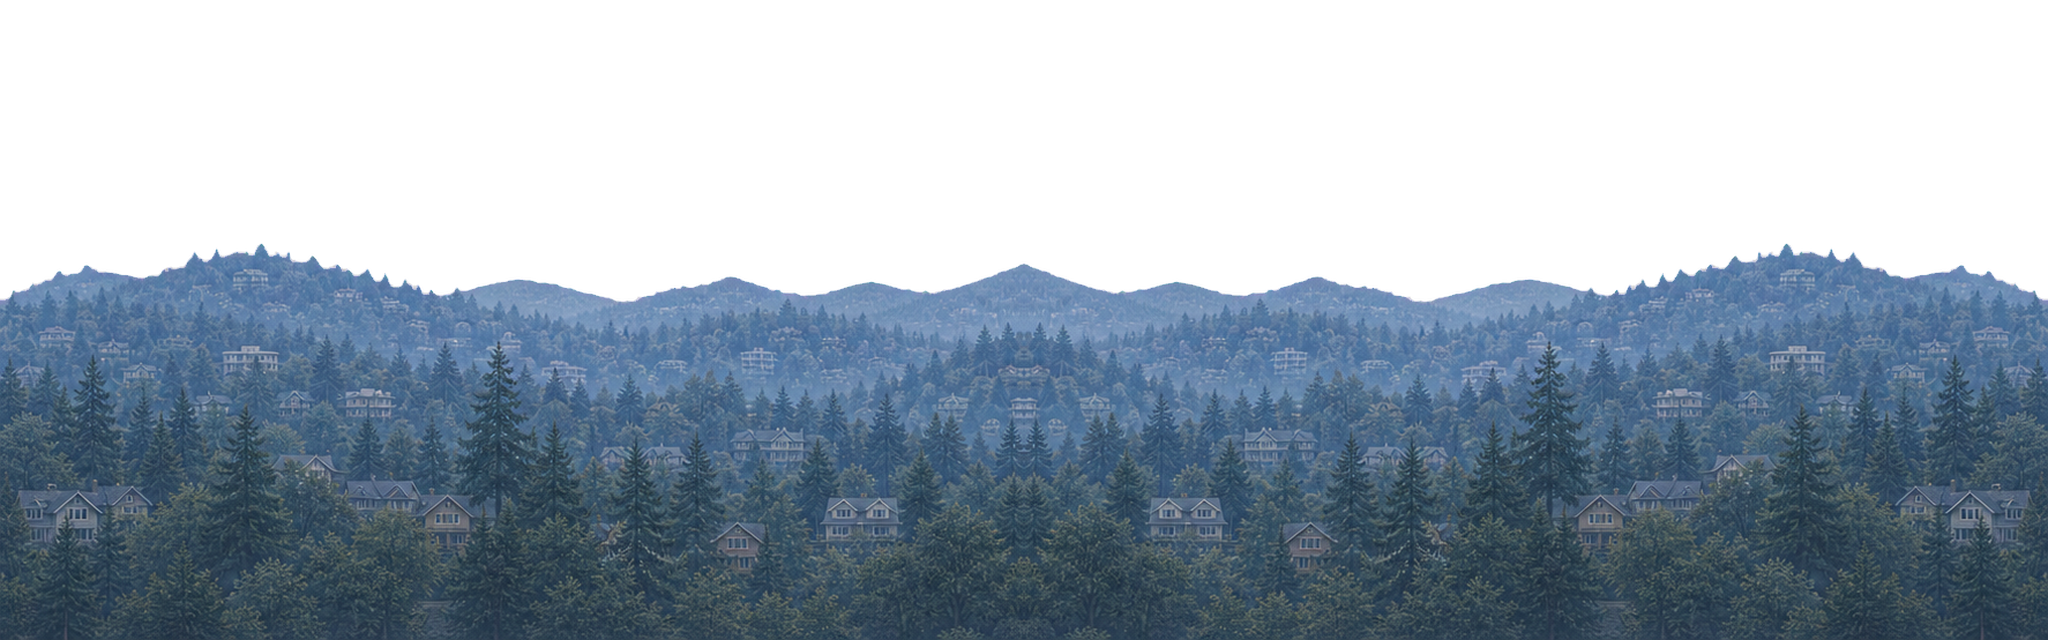
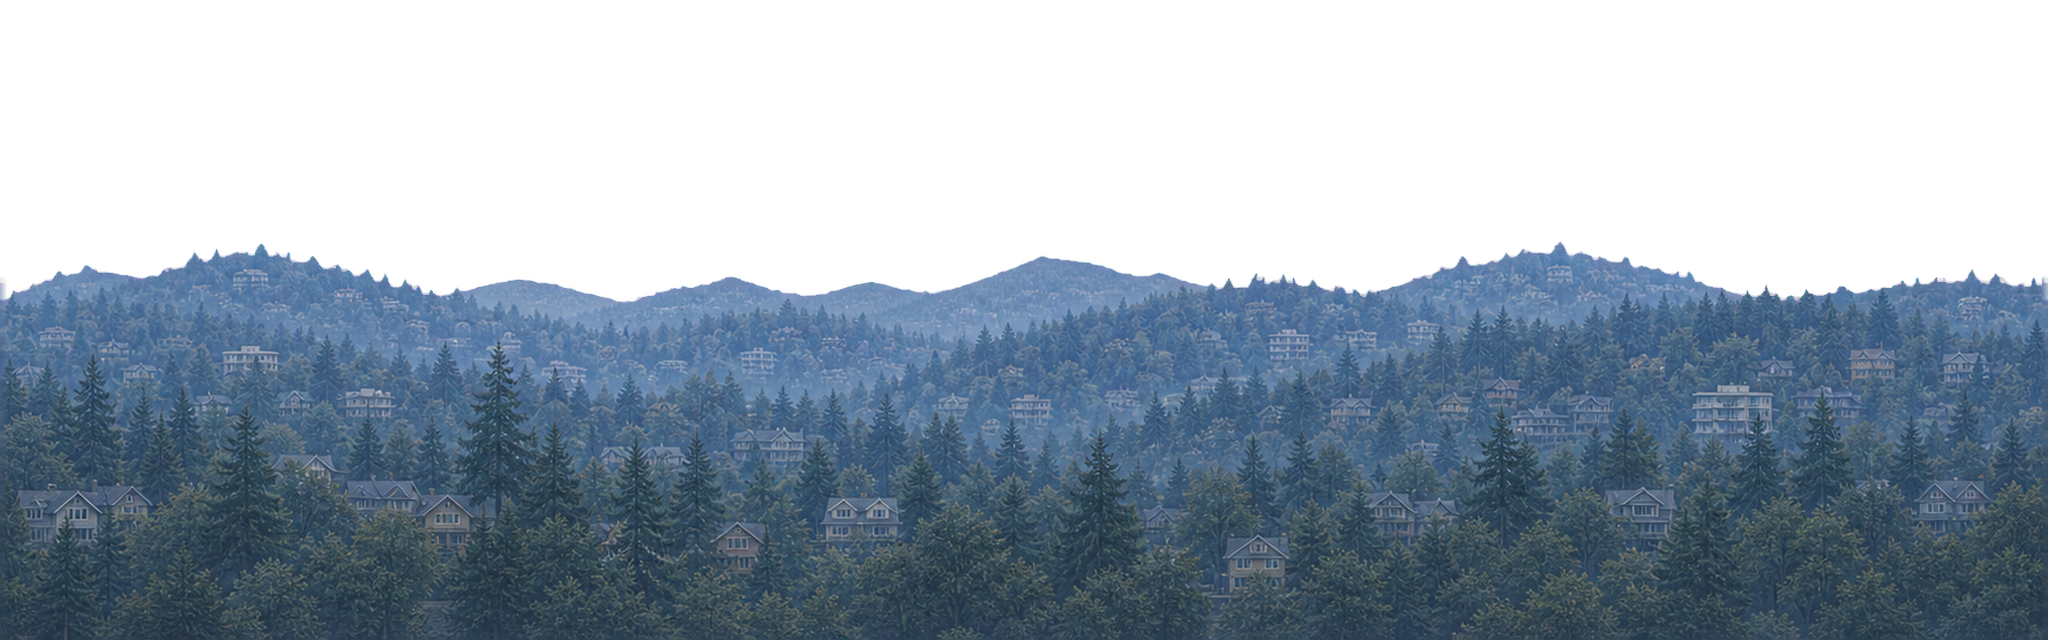
Switch off the procedural city silhouettes
Owner: "I think we need to get rid of the building silhouettes. The
biomes look so much better." Gated rather than deleted, at their request,
so it is one line to restore.

DRAW_CITY_SILHOUETTES = false in Road.js disables the pseudo-random
rectangle layer drawn into cityBackdropGfx — stepped far-hill ridgeline,
blocky buildings, warm window dots. cityGap, _citySilFade, _clipBottom
and the block loop all remain intact and correct.

Redundant since seattle_hills landed: miles 0-20 now carry real
three-layer bands, so the urban horizon has actual terrain behind the
city rather than generated blocks.

Does NOT affect the real building sprites (codex_* — Columbia Center,
Space Needle, Bellevue towers), which are RouteData scenery and a
separate system. Verified still drawing: 14 at mile 1.61, 11 at mile 12.

Verified: 0 silhouette draw commands at miles 1.61/5/9/12/18/30, bands
3/3 at every one.

Tests: 550 green. vite build clean.

Changed region(s): [[0.5, 0.375, 1.0, 1.0]]

diff --git a/src/road/Road.js b/src/road/Road.js
@@ -27,6 +27,27 @@ import {
 // height), NOT the horizon position.
 const H = () => CAM.horizonY;
 
+/**
+ * Procedural city silhouettes — TURNED OFF 2026-08-11.
+ *
+ * Owner: "I think we need to get rid of the building silhouettes. The biomes
+ * look so much better."  Kept rather than deleted, at the owner's request, so
+ * it is one line to bring back if the urban miles read empty without it.
+ *
+ * What this switch controls: the pseudo-random rectangle layer drawn into
+ * `cityBackdropGfx` — a stepped far-hill ridgeline, blocky building shapes and
+ * their sparse warm window dots.  It does NOT touch the real building sprites
+ * (`codex_*`: Columbia Center, Space Needle, the Bellevue towers), which are
+ * scenery placed from RouteData and are a completely separate system.
+ *
+ * It became redundant when `seattle_hills` landed: miles 0-20 now carry real
+ * three-layer biome bands, so the horizon has actual terrain behind the city
+ * instead of generated blocks.  Everything the layer needs is still here and
+ * still correct — `cityGap`, `_citySilFade`, `_clipBottom`, the block loop —
+ * so flipping this back to `true` restores it exactly as it was.
+ */
+const DRAW_CITY_SILHOUETTES = false;
+
 // ── Snow blanket (owner spec, 2026-07-27) ───────────────────────────────
 // Ground snow starts at the weather zone edge (mile 40) and reaches TOTAL
 // coverage at mile 55 — road, rumble strip and both shoulders all one
@@ -1164,7 +1185,7 @@ export class Road {
       const CITY_SKIRT = 30;
       const _clipBottom = () => horizonY + CITY_SKIRT;
 
-      if (cityGap < 1 && _citySilFade > 0.01) {
+      if (DRAW_CITY_SILHOUETTES && cityGap < 1 && _citySilFade > 0.01) {
         const farStep = 24;
         city.fillStyle(farHillCol, 0.95);
         for (let x = -MARGIN; x < SCREEN_W + MARGIN; x += farStep) {

diff --git a/Road Trip Roulette Overview.md b/Road Trip Roulette Overview.md
@@ -161,6 +161,28 @@ genre past the first (deferred to post-dev-mode — see the pending list above).
 
 ## Changelog (newest first)
 
+### 2026-08-11 (pt 3) — Procedural city silhouettes switched off
+Uncommitted. Tests: 550 green, `vite build` clean.
+
+**Owner:** *"I think we need to get rid of the building silhouettes. The biomes look so much
+better."* Turned OFF rather than deleted, at the owner's request — one line to bring back.
+
+`DRAW_CITY_SILHOUETTES = false` at the top of `Road.js` gates the pseudo-random rectangle layer
+drawn into `cityBackdropGfx`: the stepped far-hill ridgeline, the blocky building shapes and their
+warm window dots. Everything it needs is still present and still correct (`cityGap`, `_citySilFade`,
+`_clipBottom`, the block loop), so flipping the flag restores it exactly.
+
+It went redundant the moment `seattle_hills` landed — miles 0-20 now carry real three-layer biome
+bands, so the urban horizon has actual terrain instead of generated blocks.
+
+**This does NOT touch the real building sprites.** `codex_*` art (Columbia Center, Space Needle, the
+Bellevue glass towers) is scenery placed from `RouteData`, a completely separate system. Verified
+still drawing: 14 sprites at mile 1.61, 11 through Bellevue at mile 12.
+
+**Verified in-engine:** silhouette layer emits **0 draw commands** at miles 1.61 / 5 / 9 / 12 / 18 /
+30, while bands stay 3/3 at every one.
+
+
 ### 2026-08-11 (pt 2) — Skyline re-depthed; horizon clamp gone; Seattle biome closes the last gap
 Shipped. Tests: 550 green, `vite build` clean.
 
